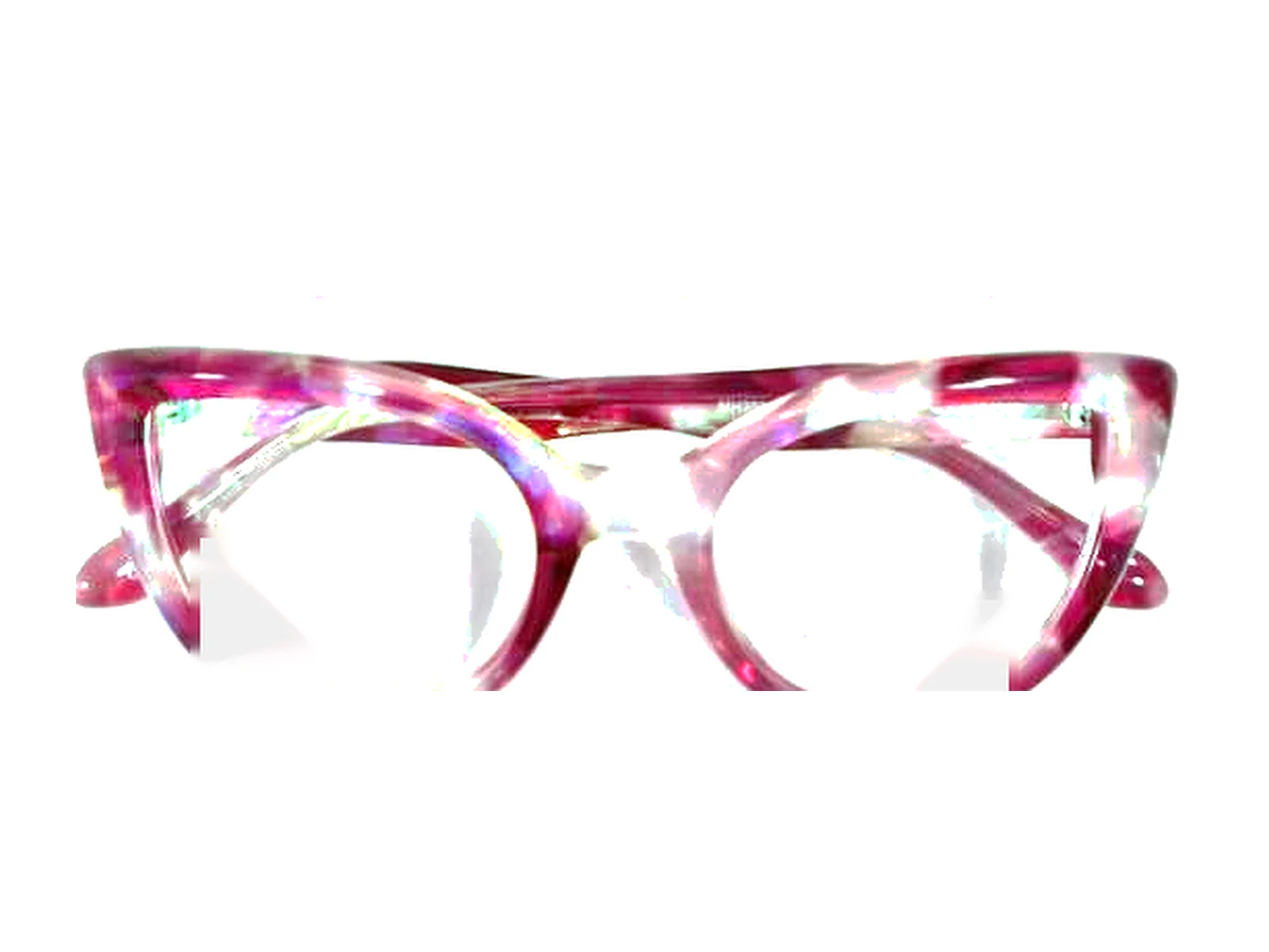
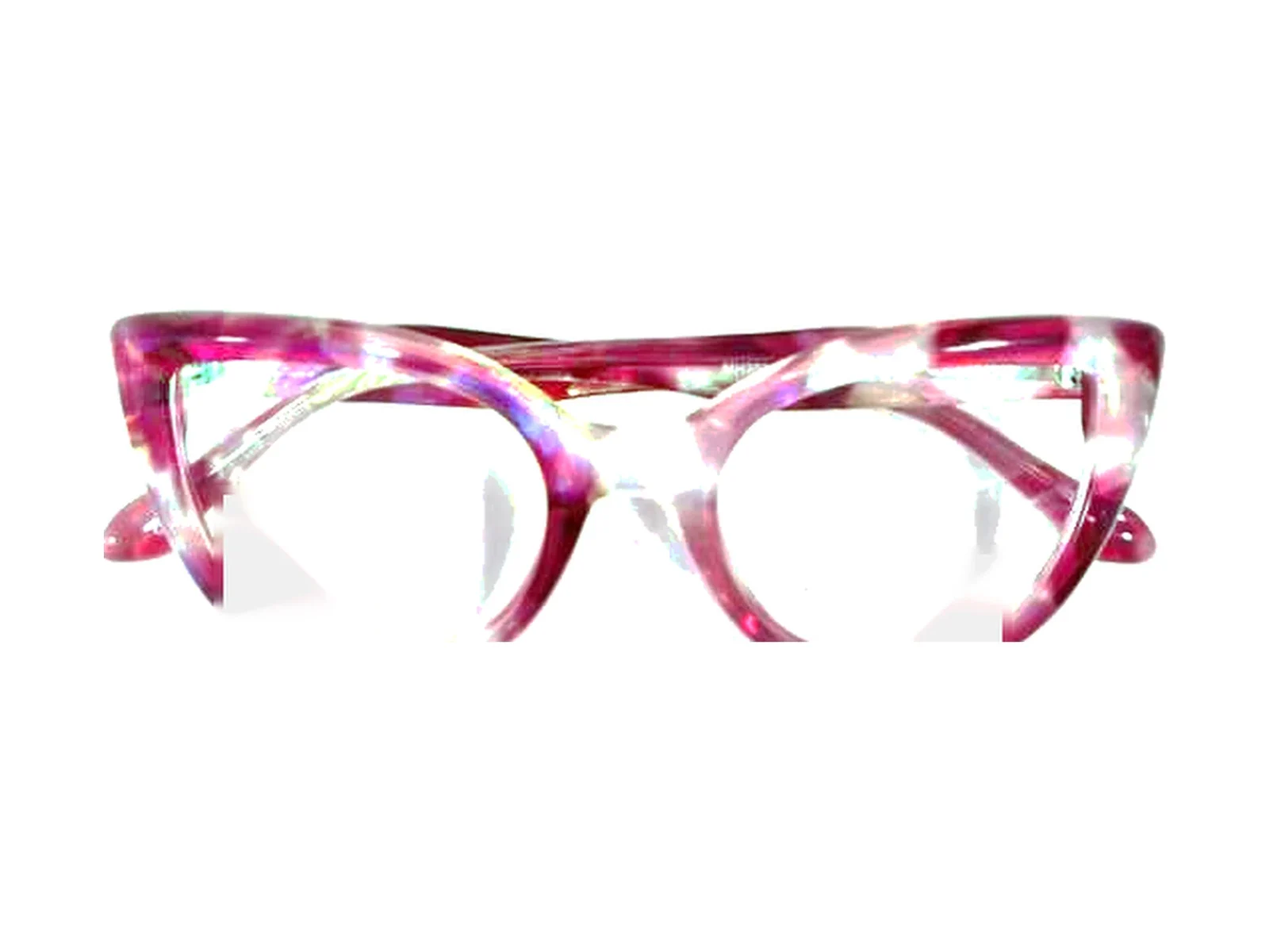
Cotizar exige cuenta (sin invitados), direcciones de despacho y forma de entrega
- Tabla customer_addresses con RLS de dueño (tope 5), migración versionada
- Mi cuenta: libreta de direcciones (agregar/eliminar)
- Tu selección: sin sesión pide crear cuenta o ingresar y vuelve a /cotizar; con sesión elige despacho a una dirección guardada o retiro coordinado
- API de cotizaciones: 401 sin sesión; la dirección se lee de la base (solo las propias) y queda en la cotización
- Pago: se informa que se paga tras confirmar receta y total (pago en línea pendiente de credenciales)
- e2e: flujo con cuenta, filtros nuevos del catálogo y mock de is_admin
- Fotos ópticas de muestra recentradas

Claude-Session: https://claude.ai/code/session_01TigpcBMiznN7zk2pwYeq2s

Changed region(s): [[0.0625, 0.3083, 0.9375, 0.74]]

diff --git a/src/components/quote-form.tsx b/src/components/quote-form.tsx
@@ -1,7 +1,7 @@
 "use client";
 
 import Link from "next/link";
-import { useEffect, useState } from "react";
+import { useEffect, useState, type ReactNode } from "react";
 import { clearSelection, setQuantity, toggleSelection, useSelection } from "@/lib/local-store";
 import { clp } from "@/lib/format";
 import { productPrice } from "@/lib/product-price";
@@ -9,7 +9,11 @@ import { FrameOutline } from "@/components/frame-outline";
 
 type Line = { id: string; name: string; price_clp: number | null; pair_base_price_clp?: number | null; is_sample?: boolean };
 
-export function QuoteForm({ open }: { open: boolean }) {
+export type QuoteAccount = { email: string; addresses: { id: string; text: string; isDefault: boolean }[] };
+
+export function QuoteForm({ open, account, sessionUnavailable = false, addressSlot }: { open: boolean; account: QuoteAccount | null; sessionUnavailable?: boolean; addressSlot?: ReactNode }) {
+  const [delivery, setDelivery] = useState<"despacho" | "retiro">("despacho");
+  const defaultAddress = account?.addresses.find((a) => a.isDefault)?.id ?? account?.addresses[0]?.id ?? "";
   const selection = useSelection();
   const ids = selection.map((s) => s.id).join(",");
   const [lines, setLines] = useState<Line[] | null>(null);
@@ -41,7 +45,8 @@ export function QuoteForm({ open }: { open: boolean }) {
   const pricing = (l: Line) => productPrice({priceClp:l.price_clp,pairBasePriceClp:l.pair_base_price_clp});
   const complete = !loadError && selection.every(s=>{const l=byId.get(s.id);return l && pricing(l).amount !== null;});
   const total = complete ? selection.reduce((acc,s)=>acc+pricing(byId.get(s.id)!).amount!*s.quantity,0) : null;
-  const canSubmit = complete && selection.every(s=>{const l=byId.get(s.id);return l && !l.is_sample && l.price_clp !== null && l.price_clp>0;});
+  const deliveryReady = delivery === "retiro" || Boolean(account?.addresses.length);
+  const canSubmit = Boolean(account) && deliveryReady && complete && selection.every(s=>{const l=byId.get(s.id);return l && !l.is_sample && l.price_clp !== null && l.price_clp>0;});
 
   async function submit(e: React.FormEvent<HTMLFormElement>) {
     e.preventDefault();
@@ -58,6 +63,7 @@ export function QuoteForm({ open }: { open: boolean }) {
           email: f.get("email"),
           phone: f.get("phone"),
           notes: f.get("notes"),
+          delivery: { method: delivery, address_id: delivery === "despacho" ? f.get("address_id") : null },
           items: selection.map((s) => ({ product_id: s.id, quantity: s.quantity })),
         }),
       });
@@ -123,7 +129,19 @@ export function QuoteForm({ open }: { open: boolean }) {
 
       <section aria-labelledby="datos">
         <h2 id="datos" className="mb-4 text-2xl">Tus datos</h2>
-        {!open ? (
+        {sessionUnavailable ? (
+          <p role="alert" className="border border-line bg-white/60 p-5 text-sm">No pudimos verificar tu sesión. Recarga la página en un momento.</p>
+        ) : !account ? (
+          <div className="border border-line bg-white/60 p-5">
+            <p className="font-medium">Para cotizar y comprar necesitas tu cuenta.</p>
+            <p className="mt-1 text-sm text-muted">Con ella guardas tu receta, tu dirección de despacho y sigues tu pedido y tu pago. No vendemos como invitado.</p>
+            <div className="mt-4 flex flex-wrap gap-2">
+              <Link href="/mi-cuenta?volver=cotizar&modo=registro" className="btn">Crear mi cuenta</Link>
+              <Link href="/mi-cuenta?volver=cotizar" className="btn btn-ghost">Ya tengo cuenta</Link>
+            </div>
+            <p className="mt-3 text-xs text-muted">Tu selección se mantiene guardada en este dispositivo.</p>
+          </div>
+        ) : !open ? (
           <div className="border border-line bg-sage/40 p-5" role="status">
             <p className="font-medium">Las cotizaciones todavía no están abiertas.</p>
             <p className="mt-1 text-sm text-muted">Tu selección queda guardada en este dispositivo. Aún no puedes enviarla.</p>
@@ -131,9 +149,20 @@ export function QuoteForm({ open }: { open: boolean }) {
         ) : (
           <form onSubmit={submit} className="flex flex-col gap-3">
             <label>Nombre<input name="name" required minLength={2} maxLength={120} autoComplete="name" className="field mt-1" /></label>
-            <label>Email<input name="email" type="email" autoComplete="email" className="field mt-1" /></label>
+            <label>Email<input name="email" type="email" defaultValue={account.email} autoComplete="email" className="field mt-1" /></label>
             <label>Teléfono<input name="phone" type="tel" minLength={6} maxLength={30} autoComplete="tel" className="field mt-1" /></label>
             <p className="-mt-1 text-xs text-muted">Indica al menos email o teléfono.</p>
+            <fieldset className="mt-2">
+              <legend className="mb-2 font-medium">Entrega</legend>
+              <label className="flex items-center gap-2 text-sm"><input type="radio" name="delivery" checked={delivery === "despacho"} onChange={() => setDelivery("despacho")} className="h-5 w-5" />Despacho a domicilio</label>
+              {delivery === "despacho" && (account.addresses.length ? (
+                <div className="ml-7 mt-2 flex flex-col gap-2">
+                  {account.addresses.map((a) => <label key={a.id} className="flex items-start gap-2 text-sm"><input type="radio" name="address_id" value={a.id} defaultChecked={a.id === defaultAddress} required className="mt-0.5 h-5 w-5" />{a.text}</label>)}
+                </div>
+              ) : <p className="ml-7 mt-2 text-sm">Agrega una dirección de despacho más abajo.</p>)}
+              <label className="mt-2 flex items-center gap-2 text-sm"><input type="radio" name="delivery" checked={delivery === "retiro"} onChange={() => setDelivery("retiro")} className="h-5 w-5" />Retiro coordinado (te escribimos para acordarlo)</label>
+              <p className="mt-2 text-xs text-muted">El costo y el plazo de despacho se confirman junto con el total, antes de pagar.</p>
+            </fieldset>
             <label>Comentarios<textarea name="notes" maxLength={2000} className="field mt-1" /></label>
             <label className="flex items-start gap-2 text-sm">
               <input type="checkbox" name="consent" required className="mt-1 h-5 w-5 accent-olive" />
@@ -142,7 +171,14 @@ export function QuoteForm({ open }: { open: boolean }) {
             {state === "error" && <p role="alert" className="text-sm text-red-700">{message}</p>}
             {!canSubmit && lines !== null && <p role="status" className="text-sm">Esta selección necesita comprobar precio o disponibilidad antes del envío.</p>}
             <button className="btn" disabled={state === "sending" || !canSubmit}>{state === "sending" ? "Enviando…" : "Enviar cotización"}</button>
+            <p className="text-xs text-muted">Pagas solo después de que confirmemos tu receta y el total final. Te enviaremos el enlace de pago.</p>
           </form>
+        )}
+        {account && !account.addresses.length && addressSlot && (
+          <details className="mt-6 border-t border-line pt-4" open={delivery === "despacho"} id="direcciones">
+            <summary className="cursor-pointer text-sm underline">Agregar dirección de despacho</summary>
+            <div className="mt-4">{addressSlot}</div>
+          </details>
         )}
       </section>
     </div>

diff --git a/src/app/mi-cuenta/page.tsx b/src/app/mi-cuenta/page.tsx
@@ -5,7 +5,9 @@ import { createClient } from "@/lib/supabase/server";
 import { getSession } from "@/lib/session";
 import { DeletePrescriptionButton } from "@/components/delete-prescription-button";
 import { CLIENT_LABEL, isReviewStatus } from "@/lib/prescription-review";
-import { signIn, signOut, signUp } from "./actions";
+import { deleteAddress, signIn, signOut, signUp } from "./actions";
+import { AddressForm } from "@/components/address-form";
+import { formatAddress } from "@/lib/addresses";
 import { PrescriptionUpload } from "@/components/prescription-upload";
 import { OpenPrescriptionButton } from "@/components/open-prescription-button";
 import Link from "next/link";
@@ -20,9 +22,9 @@ const ERRORS: Record<string, string> = {
   registro: "No pudimos crear la cuenta. Revisa los datos o intenta con otro correo.",
 };
 
-type AccountQuery={ error?: string; aviso?: string; modo?: string; reemplazar?: string; marco?:string;tratamiento?:string;uso?:string;tipo?:string};
+type AccountQuery={ error?: string; aviso?: string; modo?: string; reemplazar?: string; marco?:string;tratamiento?:string;uso?:string;tipo?:string;volver?:string;direccion?:string;campo?:string};
 type SP = Promise<AccountQuery>;
-const returnPath=(q:AccountQuery)=>accountReturnPath('/mi-cuenta?'+new URLSearchParams(Object.entries(q).filter((entry):entry is [string,string]=>typeof entry[1]==='string')).toString());
+const returnPath=(q:AccountQuery)=>q.volver==='cotizar'?'/cotizar':accountReturnPath('/mi-cuenta?'+new URLSearchParams(Object.entries(q).filter((entry):entry is [string,string]=>typeof entry[1]==='string')).toString());
 
 async function AuthForms({ searchParams }: { searchParams: SP }) {
   const query=await searchParams;
@@ -67,10 +69,12 @@ async function Account({ userId, email, query }: { userId: string; email: string
   const replacement=query.reemplazar;
   const supabase = await createClient();
   // Filtro explícito de dueño: un administrador ve todas las filas por RLS, pero aquí solo van las suyas.
-  const [{ data: rx, error: rxErr }, { data: quotes, error: quotesErr }] = await Promise.all([
+  const [{ data: rx, error: rxErr }, { data: quotes, error: quotesErr }, { data: addresses, error: addrErr }] = await Promise.all([
     supabase.from("prescriptions").select("id, created_at, quote_id, status, status_changed_at, client_message, replaces_id, product_id, requested_treatment, requested_use, requested_family, products(name)").eq("user_id", userId).order("created_at", { ascending: false }).limit(50),
     supabase.from("quotes").select("id, created_at").eq("user_id", userId).order("created_at", { ascending: false }).limit(20),
+    supabase.from("customer_addresses").select("id, recipient, phone, region, comuna, street, street_number, unit, is_default").eq("user_id", userId).order("created_at"),
   ]);
+  const ADDRESS_NOTICE: Record<string, string> = { guardada: "Dirección guardada.", borrada: "Dirección eliminada.", tope: "Puedes guardar hasta 5 direcciones. Elimina una para agregar otra.", error: "No pudimos guardar la dirección. Inténtalo de nuevo.", revisar: "Revisa los datos de la dirección." };
   const quoteOpts = (quotes ?? []).map((q) => ({ id: q.id, label: `Cotización del ${new Date(q.created_at).toLocaleDateString("es-CL")}` }));
   const replacementRow = rx?.find((r) => r.id === replacement && r.status === "needs_new_file" && !rx.some((o) => o.replaces_id === r.id));
   const replacementReceived = !!replacement && rx?.some((r) => r.replaces_id === replacement);
@@ -137,6 +141,21 @@ async function Account({ userId, email, query }: { userId: string; email: string
         <p className="mt-4 text-xs text-muted">
           Los enlaces para abrir una receta duran 60 segundos. Solo tú y el equipo autorizado pueden verla. Puedes eliminarla cuando quieras.
         </p>
+        <section id="direcciones" aria-labelledby="dir-title" className="mt-10 border-t border-line pt-6">
+          <h2 id="dir-title" className="mb-3 text-2xl">Mis direcciones de despacho</h2>
+          {query.direccion && ADDRESS_NOTICE[query.direccion] && <p role={query.direccion === "guardada" || query.direccion === "borrada" ? "status" : "alert"} className="mb-3 text-sm">{ADDRESS_NOTICE[query.direccion]}</p>}
+          {addrErr ? <p role="alert" className="text-sm text-red-700">No pudimos cargar tus direcciones.</p> : addresses?.length ? (
+            <ul className="mb-5 divide-y divide-line border-y border-line">
+              {addresses.map((a) => (
+                <li key={a.id} className="flex flex-wrap items-center justify-between gap-3 py-3 text-sm">
+                  <span><strong>{a.recipient}</strong>{a.is_default && <span className="text-muted"> · principal</span>}<span className="block text-muted">{formatAddress(a)} · {a.phone}</span></span>
+                  <form action={deleteAddress.bind(null, a.id)}><button className="min-h-11 px-2 underline">Eliminar</button></form>
+                </li>
+              ))}
+            </ul>
+          ) : <p className="mb-4 text-sm text-muted">Aún no tienes direcciones. Agrega una para recibir tus lentes.</p>}
+          {(addresses?.length ?? 0) < 5 && <details open={!addresses?.length}><summary className="cursor-pointer text-sm underline">Agregar dirección</summary><div className="mt-4"><AddressForm /></div></details>}
+        </section>
       </section>
     </div>
   );

diff --git a/src/app/cotizar/page.tsx b/src/app/cotizar/page.tsx
@@ -1,14 +1,35 @@
 import type { Metadata } from "next";
-import { QuoteForm } from "@/components/quote-form";
+import { Suspense } from "react";
+import { QuoteForm, type QuoteAccount } from "@/components/quote-form";
+import { AddressForm } from "@/components/address-form";
 import { quotesOpen } from "@/lib/flags";
+import { createClient } from "@/lib/supabase/server";
+import { getSession } from "@/lib/session";
+import { formatAddress } from "@/lib/addresses";
 
 export const metadata: Metadata = { title: "Tu selección" };
+
+// Cotizar y comprar exige cuenta (sin invitados): así quedan asociados receta, dirección de despacho y pago.
+async function Gate() {
+  const supabase = await createClient();
+  const session = await getSession(supabase);
+  let account: QuoteAccount | null = null;
+  if (session.status === "user") {
+    const { data } = await supabase.from("customer_addresses").select("id, recipient, region, comuna, street, street_number, unit, is_default")
+      .eq("user_id", session.user.id).order("created_at");
+    account = {
+      email: session.user.email ?? "",
+      addresses: (data ?? []).map((a) => ({ id: a.id, text: `${a.recipient} · ${formatAddress(a)}`, isDefault: a.is_default })),
+    };
+  }
+  return <QuoteForm open={quotesOpen()} account={account} sessionUnavailable={session.status === "unavailable"} addressSlot={<AddressForm returnTo="/cotizar" />} />;
+}
 
 export default function CotizarPage() {
   return (
     <main className="container-page">
       <div className="page-heading"><div><p className="eyebrow">Un paso más cerca</p><h1>Tu selección.</h1></div><p className="heading-note">Aquí se reúnen tus próximos favoritos. El valor de los cristales y la entrega se confirma contigo.</p></div>
-      <div className="quote-layout"><QuoteForm open={quotesOpen()} /><aside className="quote-note"><p className="eyebrow !mt-0">De persona a persona</p><h2>Primero, tus lentes.<br />Después, los detalles.</h2><p>Tu selección es el comienzo de una conversación. Revisamos tu receta y confirmamos el valor completo antes de cualquier pago.</p><ol><li><span>01</span>Elige tus marcos</li><li><span>02</span>Revisamos tu receta</li><li><span>03</span>Confirmamos tu cotización</li></ol></aside></div>
+      <div className="quote-layout"><Suspense fallback={<p role="status" className="text-muted">Cargando tu selección…</p>}><Gate /></Suspense><aside className="quote-note"><p className="eyebrow !mt-0">De persona a persona</p><h2>Primero, tus lentes.<br />Después, los detalles.</h2><p>Tu selección es el comienzo de una conversación. Revisamos tu receta y confirmamos el valor completo antes de cualquier pago.</p><ol><li><span>01</span>Elige tus marcos</li><li><span>02</span>Revisamos tu receta</li><li><span>03</span>Confirmamos el total y el despacho</li><li><span>04</span>Pagas en línea y despachamos</li></ol></aside></div>
     </main>
   );
 }

diff --git a/src/app/api/cotizaciones/route.ts b/src/app/api/cotizaciones/route.ts
@@ -1,23 +1,46 @@
 import { NextResponse } from "next/server";
 import { createClient } from "@/lib/supabase/server";
+import { getSession } from "@/lib/session";
 import { parseQuote } from "@/lib/quotes";
 import { quotesOpen } from "@/lib/flags";
+import { formatAddress } from "@/lib/addresses";
+
+const UUID = /^[0-9a-f]{8}-[0-9a-f]{4}-[0-9a-f]{4}-[0-9a-f]{4}-[0-9a-f]{12}$/i;
 
 export async function POST(request: Request) {
   if (!quotesOpen()) {
     return NextResponse.json({ error: "Las cotizaciones aún no están abiertas" }, { status: 503 });
   }
+  const supabase = await createClient();
+  // Sin invitados: cotizar exige sesión.
+  const session = await getSession(supabase);
+  if (session.status === "unavailable") return NextResponse.json({ error: "No pudimos verificar tu sesión" }, { status: 503 });
+  if (session.status !== "user") return NextResponse.json({ error: "Inicia sesión para cotizar" }, { status: 401 });
+
   const body = await request.json().catch(() => null);
   const parsed = parseQuote(body);
   if (!parsed.ok) return NextResponse.json({ error: parsed.error }, { status: 400 });
 
-  const supabase = await createClient();
+  // Entrega: la dirección se lee de la base con RLS (solo las propias), nunca se confía en texto del cliente.
+  const d = (body as { delivery?: { method?: unknown; address_id?: unknown } }).delivery;
+  let deliveryNote = "Entrega: retiro coordinado.";
+  if (d?.method === "despacho") {
+    if (typeof d.address_id !== "string" || !UUID.test(d.address_id)) return NextResponse.json({ error: "Elige una dirección de despacho" }, { status: 400 });
+    const { data: a } = await supabase.from("customer_addresses").select("recipient, phone, region, comuna, street, street_number, unit, notes")
+      .eq("id", d.address_id).eq("user_id", session.user.id).maybeSingle();
+    if (!a) return NextResponse.json({ error: "Elige una dirección de despacho" }, { status: 400 });
+    deliveryNote = `Despacho a: ${a.recipient}, ${formatAddress(a)}. Tel. ${a.phone}${a.notes ? `. Indicaciones: ${a.notes}` : ""}.`;
+  } else if (d?.method !== "retiro") {
+    return NextResponse.json({ error: "Elige cómo recibir tus lentes" }, { status: 400 });
+  }
   const { name, email, phone, notes, items } = parsed.value;
+  const fullNotes = [notes, deliveryNote].filter(Boolean).join("\n");
+  if (fullNotes.length > 2000) return NextResponse.json({ error: "Comentarios demasiado largos" }, { status: 400 });
   const { data, error } = await supabase.rpc("create_quote", {
     p_name: name,
     p_email: email,
     p_phone: phone,
-    p_notes: notes,
+    p_notes: fullNotes,
     p_items: items,
   });
   if (error) return NextResponse.json({ error: "No se pudo crear la cotización" }, { status: 422 });

diff --git a/src/app/mi-cuenta/actions.ts b/src/app/mi-cuenta/actions.ts
@@ -3,6 +3,8 @@
 import { redirect } from "next/navigation";
 import { createClient } from "@/lib/supabase/server";
 import {accountReturnPath} from '@/lib/prescription-context';
+import { revalidatePath } from "next/cache";
+import { parseAddress } from "@/lib/addresses";
 
 const EMAIL = /^[^@\s]+@[^@\s]+\.[^@\s]+$/;
 const str = (f: FormData, k: string) => (typeof f.get(k) === "string" ? (f.get(k) as string).trim() : "");
@@ -38,4 +40,33 @@ export async function signOut() {
   const supabase = await createClient();
   await supabase.auth.signOut();
   redirect("/mi-cuenta");
+}
+
+const UUID = /^[0-9a-f]{8}-[0-9a-f]{4}-[0-9a-f]{4}-[0-9a-f]{4}-[0-9a-f]{12}$/i;
+// Volver a la selección si la dirección se agregó desde ahí.
+const addressBack = (f: FormData) => (str(f, "return_to") === "/cotizar" ? "/cotizar" : "/mi-cuenta");
+
+export async function addAddress(formData: FormData) {
+  const back = addressBack(formData);
+  const parsed = parseAddress((k) => formData.get(k));
+  if (!parsed.ok) redirect(notice(back, `direccion=revisar&campo=${parsed.error}#direcciones`));
+  const supabase = await createClient();
+  const { data: auth } = await supabase.auth.getUser();
+  if (!auth.user) redirect("/mi-cuenta");
+  const { count } = await supabase.from("customer_addresses").select("id", { count: "exact", head: true }).eq("user_id", auth.user.id);
+  const { error } = await supabase.from("customer_addresses").insert({ ...parsed.value, user_id: auth.user.id, is_default: !count });
+  if (error) redirect(notice(back, `direccion=${error.message.includes("address_limit") ? "tope" : "error"}#direcciones`));
+  revalidatePath(back);
+  redirect(notice(back, "direccion=guardada#direcciones"));
+}
+
+export async function deleteAddress(id: string) {
+  if (!UUID.test(id)) redirect("/mi-cuenta");
+  const supabase = await createClient();
+  const { data: auth } = await supabase.auth.getUser();
+  if (!auth.user) redirect("/mi-cuenta");
+  // RLS ya impide borrar direcciones ajenas; el filtro de dueño lo hace explícito.
+  await supabase.from("customer_addresses").delete().eq("id", id).eq("user_id", auth.user.id);
+  revalidatePath("/mi-cuenta");
+  redirect("/mi-cuenta?direccion=borrada#direcciones");
 }

diff --git a/src/components/address-form.tsx b/src/components/address-form.tsx
@@ -1,0 +1,20 @@
+import { addAddress } from "@/app/mi-cuenta/actions";
+import { REGIONES } from "@/lib/addresses";
+
+// Formulario de dirección de despacho (acción de servidor). `returnTo` = página a la que vuelve al guardar.
+export function AddressForm({ returnTo = "/mi-cuenta" }: { returnTo?: "/mi-cuenta" | "/cotizar" }) {
+  return (
+    <form action={addAddress} className="grid gap-3 sm:grid-cols-2">
+      <input type="hidden" name="return_to" value={returnTo} />
+      <label className="sm:col-span-2">Quién recibe<input name="recipient" required minLength={2} maxLength={120} autoComplete="name" className="field mt-1" /></label>
+      <label>Teléfono<input name="phone" type="tel" required minLength={6} maxLength={30} autoComplete="tel" placeholder="+56 9 1234 5678" className="field mt-1" /></label>
+      <label>Región<select name="region" required defaultValue="Metropolitana" autoComplete="address-level1" className="field mt-1">{REGIONES.map((r) => <option key={r}>{r}</option>)}</select></label>
+      <label>Comuna<input name="comuna" required minLength={2} maxLength={60} autoComplete="address-level2" className="field mt-1" /></label>
+      <label>Calle<input name="street" required minLength={2} maxLength={120} autoComplete="address-line1" className="field mt-1" /></label>
+      <label>Número<input name="street_number" required maxLength={20} inputMode="numeric" className="field mt-1" /></label>
+      <label>Depto. / casa (opcional)<input name="unit" maxLength={40} autoComplete="address-line2" className="field mt-1" /></label>
+      <label className="sm:col-span-2">Indicaciones para el despacho (opcional)<input name="notes" maxLength={300} className="field mt-1" /></label>
+      <button className="btn sm:col-span-2 sm:justify-self-start">Guardar dirección</button>
+    </form>
+  );
+}

diff --git a/src/lib/addresses.ts b/src/lib/addresses.ts
@@ -1,0 +1,32 @@
+// Direcciones de despacho: validación compartida (servidor) y regiones de Chile.
+export const REGIONES = [
+  "Arica y Parinacota", "Tarapacá", "Antofagasta", "Atacama", "Coquimbo", "Valparaíso", "Metropolitana",
+  "O'Higgins", "Maule", "Ñuble", "Biobío", "La Araucanía", "Los Ríos", "Los Lagos", "Aysén", "Magallanes",
+] as const;
+
+export type AddressInput = {
+  recipient: string; phone: string; region: string; comuna: string; street: string; street_number: string;
+  unit: string | null; notes: string | null;
+};
+export type Address = AddressInput & { id: string; is_default: boolean };
+
+const LIMITS: Record<keyof AddressInput, [number, number]> = {
+  recipient: [2, 120], phone: [6, 30], region: [2, 60], comuna: [2, 60], street: [2, 120], street_number: [1, 20], unit: [0, 40], notes: [0, 300],
+};
+
+export function parseAddress(get: (k: string) => unknown): { ok: true; value: AddressInput } | { ok: false; error: string } {
+  const v = {} as Record<keyof AddressInput, string | null>;
+  for (const k of Object.keys(LIMITS) as (keyof AddressInput)[]) {
+    const raw = get(k);
+    const s = typeof raw === "string" ? raw.trim() : "";
+    const [min, max] = LIMITS[k];
+    if (s.length > max || (min > 0 && s.length < min)) return { ok: false, error: k };
+    v[k] = s || null;
+  }
+  if (!(REGIONES as readonly string[]).includes(v.region!)) return { ok: false, error: "region" };
+  if (!/^[+\d][\d\s-]{5,29}$/.test(v.phone!)) return { ok: false, error: "phone" };
+  return { ok: true, value: v as AddressInput };
+}
+
+export const formatAddress = (a: Pick<Address, "street" | "street_number" | "unit" | "comuna" | "region">) =>
+  `${a.street} ${a.street_number}${a.unit ? `, ${a.unit}` : ""}, ${a.comuna}, ${a.region}`;

diff --git a/tests/addresses.test.ts b/tests/addresses.test.ts
@@ -1,0 +1,27 @@
+import { describe, expect, it } from "vitest";
+import { formatAddress, parseAddress } from "../src/lib/addresses";
+import { accountReturnPath } from "../src/lib/prescription-context";
+
+const base: Record<string, string> = { recipient: "Ana Pérez", phone: "+56 9 1234 5678", region: "Metropolitana", comuna: "Ñuñoa", street: "Irarrázaval", street_number: "1234", unit: "", notes: "" };
+const parse = (o: Record<string, string>) => parseAddress((k) => o[k]);
+
+describe("direcciones de despacho", () => {
+  it("acepta una dirección completa y deja vacíos opcionales como null", () => {
+    const r = parse(base);
+    expect(r.ok && r.value.unit).toBeNull();
+    expect(r.ok && formatAddress(r.value)).toBe("Irarrázaval 1234, Ñuñoa, Metropolitana");
+  });
+  it("rechaza región inventada, teléfono inválido y campos obligatorios vacíos", () => {
+    expect(parse({ ...base, region: "Narnia" })).toEqual({ ok: false, error: "region" });
+    expect(parse({ ...base, phone: "abc123" })).toEqual({ ok: false, error: "phone" });
+    expect(parse({ ...base, street: " " })).toEqual({ ok: false, error: "street" });
+    expect(parse({ ...base, notes: "x".repeat(301) })).toEqual({ ok: false, error: "notes" });
+  });
+  it("volver a la selección tras ingresar, sin abrir redirecciones externas", () => {
+    expect(accountReturnPath("/cotizar")).toBe("/cotizar");
+    expect(accountReturnPath("/cotizar?x=https://evil.example")).toBe("/cotizar");
+    expect(accountReturnPath("https://evil.example/cotizar")).toBe("/mi-cuenta");
+    expect(accountReturnPath("//evil.example/cotizar")).toBe("/mi-cuenta");
+    expect(accountReturnPath("/admin")).toBe("/mi-cuenta");
+  });
+});

diff --git a/src/lib/prescription-context.ts b/src/lib/prescription-context.ts
@@ -10,5 +10,5 @@ export function parsePrescriptionContext(value:{product_id:unknown;requested_tre
 }
 /** Solo conserva contexto de selección en el ingreso; jamás acepta destinos externos ni graduaciones en URL. */
 export function accountReturnPath(raw:string):string {
- try {const u=new URL(raw,'https://local.invalid');if(u.origin!=='https://local.invalid'||u.pathname!=='/mi-cuenta')return '/mi-cuenta';const q=new URLSearchParams();for(const key of ['marco','tratamiento','uso','tipo','reemplazar']){const v=u.searchParams.get(key);if(v&&v.length<=120)q.set(key,v);}return `/mi-cuenta${q.size?'?'+q.toString():''}`;}catch{return '/mi-cuenta';}
+ try {const u=new URL(raw,'https://local.invalid');if(u.origin!=='https://local.invalid')return '/mi-cuenta';if(u.pathname==='/cotizar')return '/cotizar';if(u.pathname!=='/mi-cuenta')return '/mi-cuenta';const q=new URLSearchParams();for(const key of ['marco','tratamiento','uso','tipo','reemplazar']){const v=u.searchParams.get(key);if(v&&v.length<=120)q.set(key,v);}return `/mi-cuenta${q.size?'?'+q.toString():''}`;}catch{return '/mi-cuenta';}
 }
